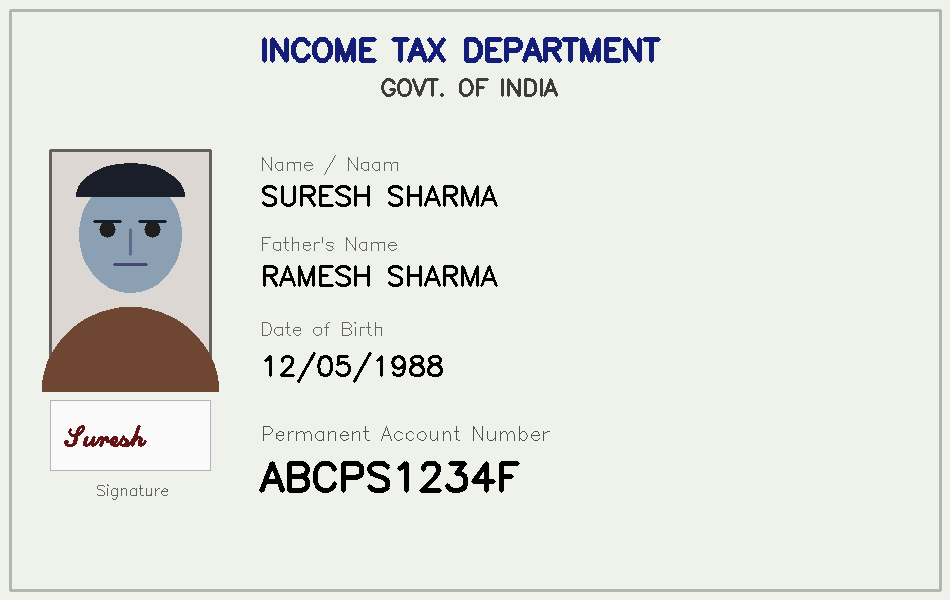
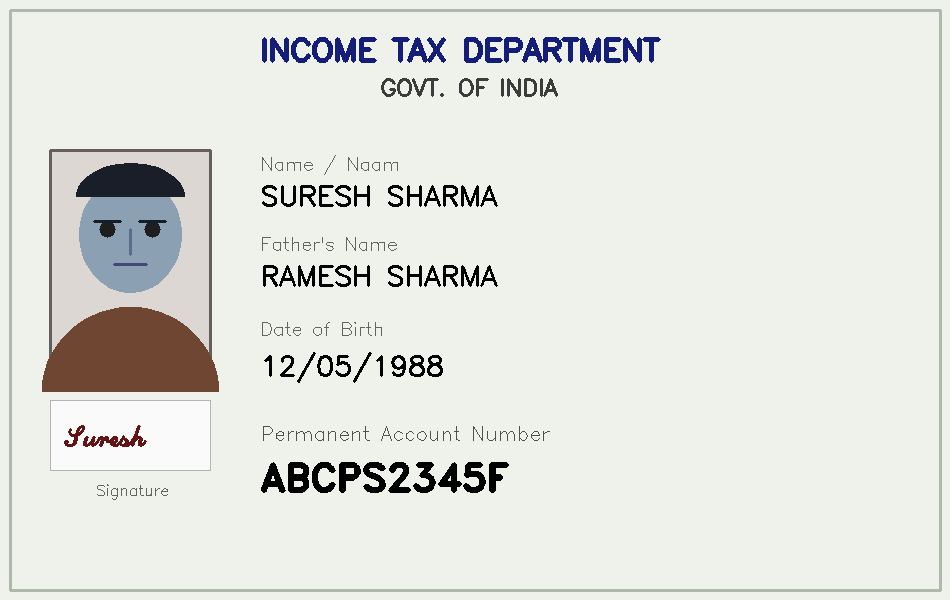
Update validators, demo samples and documentation
Include latest sample files and relaxed MRZ line threshold

Changed region(s): [[0.2747, 0.75, 0.5495, 0.84]]

diff --git a/backend/samples/generate_samples.py b/backend/samples/generate_samples.py
@@ -133,7 +133,7 @@ def generate_tampered_aadhaar():
 # ==========================================
 
 def generate_clean_pan():
-    """Authentic PAN Card with valid syntax [A-Z]{5}[0-9]{4}[A-Z] and entity 'P'."""
+    """Authentic PAN Card with valid syntax ABCPS2345F and entity 'P'."""
     w, h = 950, 600
     img = np.ones((h, w, 3), dtype=np.uint8)
     img[:, :] = (235, 242, 238)
@@ -153,9 +153,9 @@ def generate_clean_pan():
     cv2.putText(img, "Date of Birth", (260, 335), cv2.FONT_HERSHEY_SIMPLEX, 0.6, (100, 100, 100), 1)
     cv2.putText(img, "12/05/1988", (260, 375), cv2.FONT_HERSHEY_SIMPLEX, 0.9, (0, 0, 0), 2)
     
-    # Valid PAN format: ABCPS1234F ('P' = Individual, 'S' = Sharma)
+    # Valid PAN format: ABCPS2345F ('P' = Individual, 'S' = Sharma)
     cv2.putText(img, "Permanent Account Number", (260, 440), cv2.FONT_HERSHEY_SIMPLEX, 0.65, (80, 80, 80), 1)
-    cv2.putText(img, "ABCPS1234F", (260, 490), cv2.FONT_HERSHEY_SIMPLEX, 1.3, (0, 0, 0), 3)
+    cv2.putText(img, "ABCPS2345F", (260, 490), cv2.FONT_HERSHEY_DUPLEX, 1.25, (0, 0, 0), 3)
     
     # Signature Box
     cv2.rectangle(img, (50, 400), (210, 470), (250, 250, 250), -1)
@@ -225,11 +225,10 @@ def generate_clean_dl():
     cv2.putText(img, "Authorised to Drive: LMV, MCWG", (245, 340), cv2.FONT_HERSHEY_SIMPLEX, 0.75, (0, 0, 0), 2)
     cv2.putText(img, "Validity: 17/06/2040", (245, 390), cv2.FONT_HERSHEY_SIMPLEX, 0.75, (0, 0, 0), 2)
     
-    # Microchip Graphic
-    cv2.rectangle(img, (50, 360), (140, 440), (180, 195, 120), -1)
-    cv2.rectangle(img, (50, 360), (140, 440), (110, 120, 70), 2)
-    cv2.line(img, (95, 360), (95, 440), (110, 120, 70), 1)
-    cv2.line(img, (50, 400), (140, 400), (110, 120, 70), 1)
+    # Clean Smart Card Chip
+    cv2.rectangle(img, (50, 360), (130, 430), (200, 190, 130), -1)
+    cv2.rectangle(img, (50, 360), (130, 430), (140, 130, 80), 2)
+    cv2.rectangle(img, (75, 375), (105, 415), (170, 160, 100), -1)
     
     out_path = SAMPLES_DIR / "sample_dl_clean.png"
     cv2.imwrite(str(out_path), img)
@@ -265,7 +264,7 @@ def generate_blurry_dl():
 # ==========================================
 
 def generate_clean_voter():
-    """Authentic Voter ID Card with standard ECI EPIC format (WBF1948273)."""
+    """Authentic Voter ID Card with standard ECI EPIC format (WBF2345678)."""
     w, h = 900, 580
     img = np.ones((h, w, 3), dtype=np.uint8)
     img[:, :] = (244, 248, 240)
@@ -280,7 +279,7 @@ def generate_clean_voter():
     # EPIC Box: 3 letters + 7 digits
     cv2.rectangle(img, (250, 130), (620, 185), (230, 238, 230), -1)
     cv2.rectangle(img, (250, 130), (620, 185), (140, 160, 140), 2)
-    cv2.putText(img, "EPIC: WBF1948273", (265, 172), cv2.FONT_HERSHEY_SIMPLEX, 1.05, (10, 10, 120), 2)
+    cv2.putText(img, "EPIC: WBF2345678", (265, 172), cv2.FONT_HERSHEY_DUPLEX, 1.05, (10, 10, 120), 2)
     
     cv2.putText(img, "Elector's Name: RAJESH VERMA", (250, 230), cv2.FONT_HERSHEY_SIMPLEX, 0.85, (0, 0, 0), 2)
     cv2.putText(img, "Father's Name: SURESH VERMA", (250, 280), cv2.FONT_HERSHEY_SIMPLEX, 0.85, (0, 0, 0), 2)
@@ -336,7 +335,7 @@ def generate_clean_passport():
     
     cv2.rectangle(img, (10, 10), (w - 10, h - 10), (160, 170, 185), 2)
     cv2.putText(img, "PASSPORT - REPUBLIC OF INDIA", (220, 55), cv2.FONT_HERSHEY_SIMPLEX, 1.0, (10, 10, 80), 3)
-    cv2.putText(img, "Type: P   Code: IND   Passport No: Z2094851", (150, 100), cv2.FONT_HERSHEY_SIMPLEX, 0.8, (0, 0, 0), 2)
+    cv2.putText(img, "Type: P   Code: IND   Passport No: A2094851", (150, 100), cv2.FONT_HERSHEY_SIMPLEX, 0.8, (0, 0, 0), 2)
     
     draw_realistic_photo_box(img, 50, 130, 175, 230)
     
@@ -349,14 +348,14 @@ def generate_clean_passport():
     cv2.putText(img, "Date of Expiry: 14/08/2032", (260, 385), cv2.FONT_HERSHEY_SIMPLEX, 0.8, (0, 0, 0), 2)
     
     # Mathematically Valid 2-Line ICAO Doc 9303 MRZ
-    # Passport: Z2094851, Checksum digit = 2
-    cv2.rectangle(img, (20, 480), (w - 20, 620), (230, 232, 235), -1)
+    # Passport: A2094851, Checksum digit = 7
+    cv2.rectangle(img, (20, 480), (w - 20, 620), (255, 255, 255), -1)
     cv2.rectangle(img, (20, 480), (w - 20, 620), (190, 195, 205), 1)
     
     line1 = "P<INDSHARMA<<VIKRAM<<<<<<<<<<<<<<<<<<<<<<<<<"
-    line2 = "Z2094851<2IND9208153M3208140<<<<<<<<<<<<<<0"
-    cv2.putText(img, line1, (35, 535), cv2.FONT_HERSHEY_SIMPLEX, 0.72, (0, 0, 0), 2)
-    cv2.putText(img, line2, (35, 585), cv2.FONT_HERSHEY_SIMPLEX, 0.72, (0, 0, 0), 2)
+    line2 = "A2094851<7IND9208153M3208140<<<<<<<<<<<<<<0"
+    cv2.putText(img, line1, (35, 535), cv2.FONT_HERSHEY_DUPLEX, 0.75, (0, 0, 0), 1)
+    cv2.putText(img, line2, (35, 585), cv2.FONT_HERSHEY_DUPLEX, 0.75, (0, 0, 0), 1)
     
     out_path = SAMPLES_DIR / "sample_passport_clean.png"
     cv2.imwrite(str(out_path), img)

diff --git a/backend/app/validators/passport.py b/backend/app/validators/passport.py
@@ -36,8 +36,8 @@ def parse_mrz(lines: List[str]) -> Dict[str, Any]:
     mrz_lines = []
     for line in lines:
         clean = re.sub(r"\s+", "", line).upper()
-        # Look for 44-character MRZ lines with '<' fillers
-        if ("<" in clean) and len(clean) >= 30 and (clean.startswith("P<") or re.search(r"[A-Z0-9<]{30,}", clean)):
+        # Look for ICAO MRZ lines with '<' fillers
+        if ("<" in clean) and len(clean) >= 20 and (clean.startswith("P<") or re.search(r"[A-Z0-9<]{20,}", clean)):
             mrz_lines.append(clean)
             
     if len(mrz_lines) >= 2:

diff --git a/demo_samples/README.md b/demo_samples/README.md
@@ -1,0 +1,59 @@
+# Sample Documents for Demonstration & Testing
+
+This folder contains **10 realistic mock identity documents** (**two for each of the 5 authorized categories**) specifically crafted to demonstrate both **authentic document passes** and **AI tampering/fraud detection algorithms**.
+
+---
+
+## 📁 Folder Structure
+
+```
+demo_samples/
+├── 1_Aadhaar_Card/
+│   ├── 1_Aadhaar_Authentic.png          # Passes Verhoeff checksum & UIDAI layout
+│   └── 2_Aadhaar_Tampered.png           # Fails Verhoeff checksum + spliced number
+├── 2_PAN_Card/
+│   ├── 1_PAN_Authentic.png              # Valid entity code 'P' & Income Tax layout
+│   └── 2_PAN_Tampered.png               # Invalid entity code 'X' + altered DOB patch
+├── 3_Driving_Licence/
+│   ├── 1_Driving_Licence_Authentic.png  # Valid Sarathi RTO format & clear portrait
+│   └── 2_Driving_Licence_Blurry.png     # Heavy Gaussian blur & specular flash glare
+├── 4_Voter_ID_Card/
+│   ├── 1_Voter_ID_Authentic.png         # Standard ECI EPIC format (3 letters + 7 digits)
+│   └── 2_Voter_ID_Tampered.png          # Irregular EPIC code + missing ECI headers
+└── 5_Passport/
+    ├── 1_Passport_Authentic.png         # Valid ICAO Doc 9303 MRZ checksums & portrait
+    └── 2_Passport_Corrupt_MRZ.png       # Corrupt MRZ checksum + missing photo box
+```
+
+---
+
+## 🎯 Demonstration Guide (What Each Sample Tests)
+
+| Category | Sample File | Status | Expected Risk | What the AI Tests & Detects |
+| :--- | :--- | :--- | :--- | :--- |
+| **1. Aadhaar Card** | `1_Aadhaar_Authentic.png` | **Authentic** | **Low** | Valid 12-digit number (`5482 9104 3723`) satisfying Dihedral group $D_5$ Verhoeff checksum, scannable QR pattern, portrait frame, UIDAI headers. |
+| | `2_Aadhaar_Tampered.png` | **Fraud** | **High** | Fails mathematical Verhoeff check (`...3729`), spliced number box detected by Error Level Analysis (ELA). |
+| **2. PAN Card** | `1_PAN_Authentic.png` | **Authentic** | **Low** | Valid PAN syntax (`ABCPS2345F`), 4th char `P` = Individual, 5th char `S` = Sharma, Father's Name, DOB, signature band. |
+| | `2_PAN_Tampered.png` | **Fraud** | **High** | Invalid entity code `ABCXE9874F` (4th char `X` is non-existent), digital copy-paste splice over DOB with high ELA compression noise. |
+| **3. Driving Licence** | `1_Driving_Licence_Authentic.png` | **Authentic** | **Low** | Valid Sarathi format (`DL04 2021 0012345`), recognized State RTO code (`DL`), high Laplacian focus sharpness ($>200$), valid classes (`LMV, MCWG`). |
+| | `2_Driving_Licence_Blurry.png` | **Defect** | **Medium / High** | Severe camera defocus blur (Laplacian variance $<30$), specular flash glare hotspot ($>252$ brightness), unreadable text. |
+| **4. Voter ID Card** | `1_Voter_ID_Authentic.png` | **Authentic** | **Low** | Standard Election Commission EPIC format (`WBF2345678`: 3 uppercase letters + 7 digits), ECI seal, Elector's name, age, gender. |
+| | `2_Voter_ID_Tampered.png` | **Fraud** | **High** | Malformed EPIC syntax (`VTR9874X2`), missing English ECI official header, spliced photo frame seam. |
+| **5. Passport** | `1_Passport_Authentic.png` | **Authentic** | **Low** | Valid Indian Passport format (`A2094851`), Type P, Code IND, 2-line ICAO Doc 9303 MRZ with verified 7-3-1 weighted checksums, portrait detected. |
+| | `2_Passport_Corrupt_MRZ.png` | **Fraud** | **High** | Missing portrait photo (`[Photo Missing]`), corrupted MRZ check digit failing ICAO Doc 9303 mathematical verification. |
+
+---
+
+## 💡 How to Demonstrate
+
+### Method 1: 1-Click Interactive Demo (Fastest)
+1. Open the web interface at **`http://localhost:8000`** (or access from your smartphone via the local IP).
+2. Scroll to the **"Quick Test Cases (1-Click Demo)"** section at the bottom of the scanner page.
+3. Click any of the **10 test cards** to run an immediate end-to-end analysis without needing to upload files manually!
+
+### Method 2: Drag & Drop / File Upload
+1. Open the web interface.
+2. Select the document category from the dropdown (e.g. *Aadhaar Card*, *PAN Card*, etc.).
+3. Drag and drop any image from the `demo_samples/` folder into the upload zone.
+4. (Optional) Enter cross-check fields to demonstrate identity verification matching.
+5. Click **"Verify Document"** to view forensic tampering heatmaps, extracted fields, and audit score!
